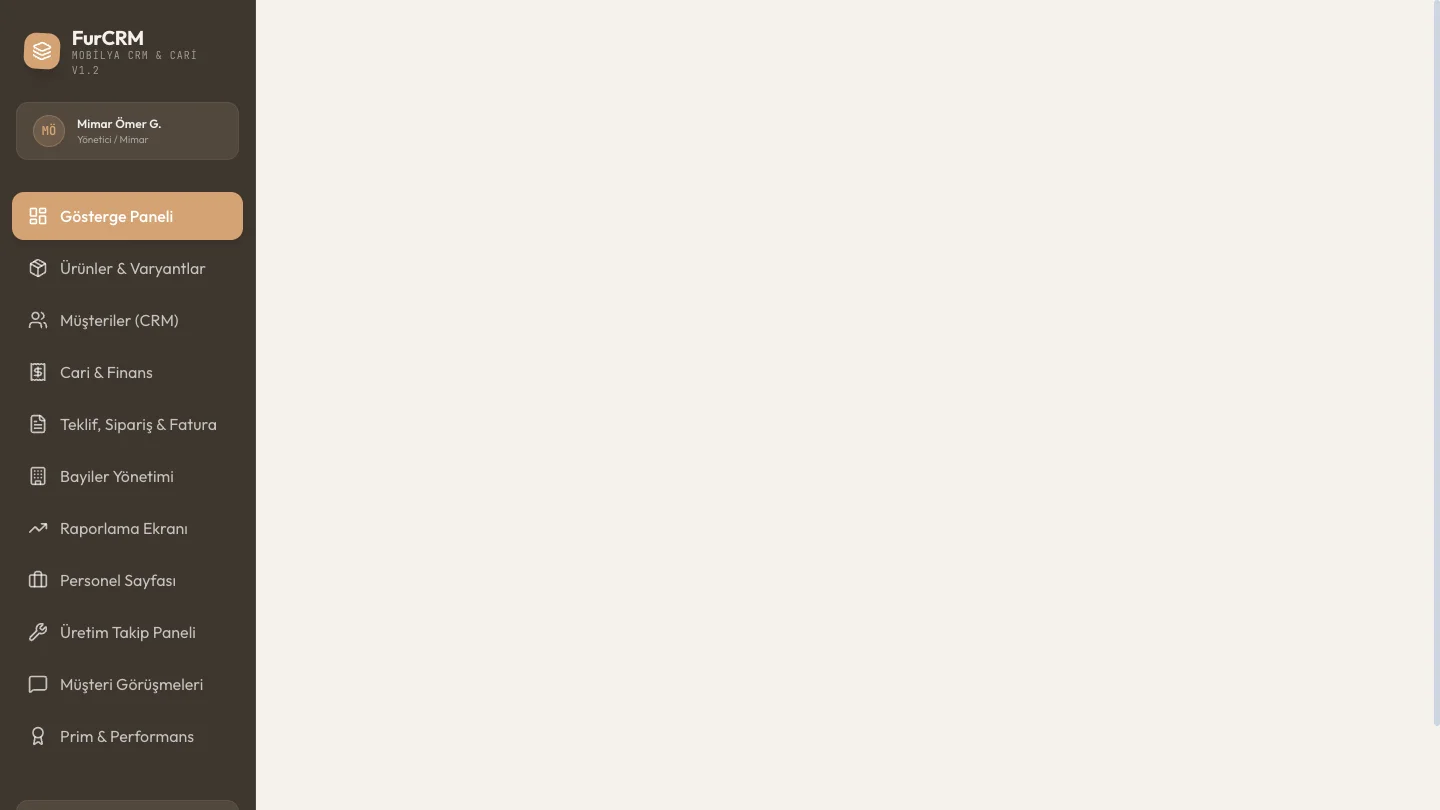
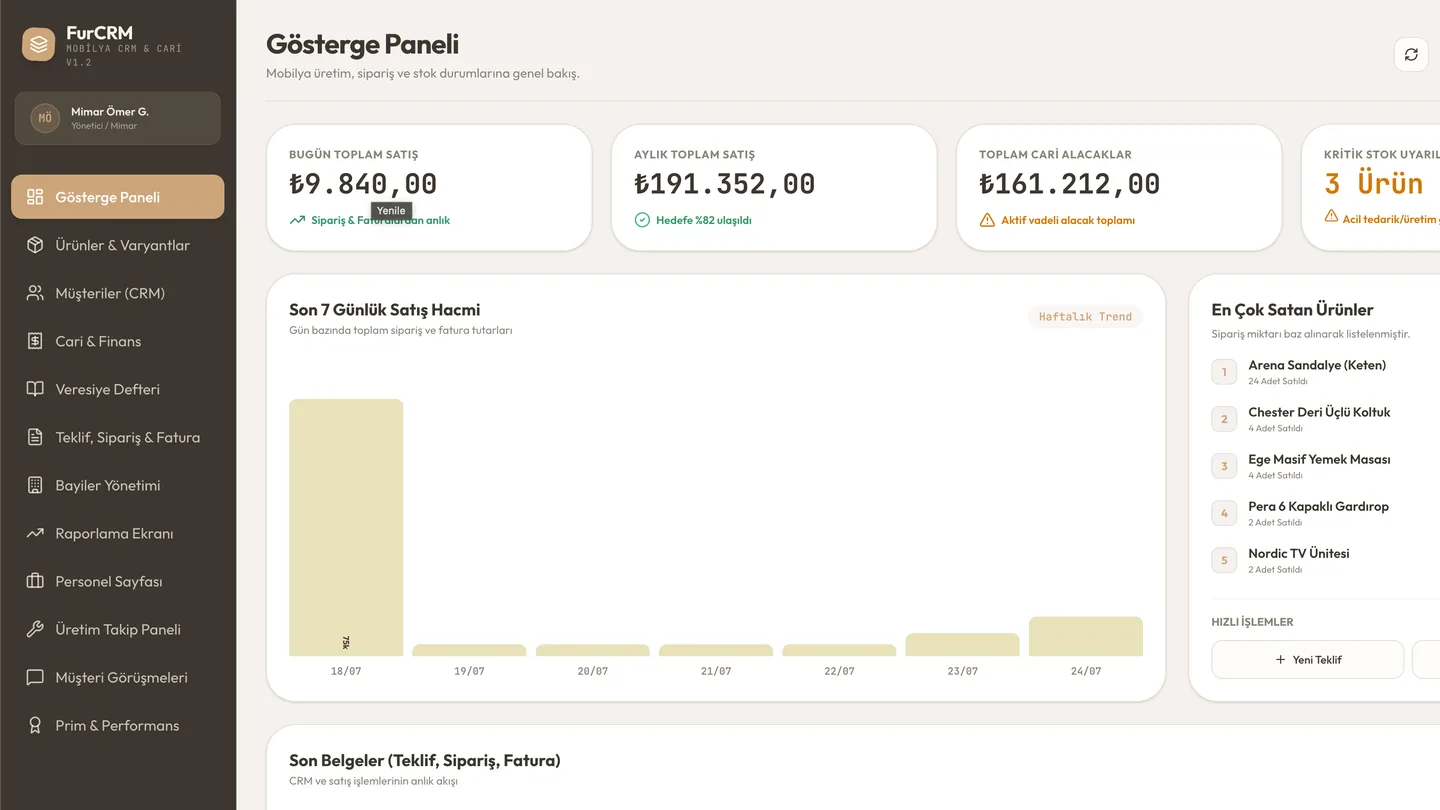
feat(assets): 5 yeni proje gorseli + bozuk FurCRM preview'i duzeltildi
FurCRM'in desktop preview'i bostu (16 KB, sadece sol menu goruntuluyordu --
screenshot sayfa render olmadan alinmis). Dogru dashboard goruntusuyle degistirildi.

Yeni desktop preview (Google Drive'daki PDF'lerden 150 DPI render, ustten 16:9
kirpma, 1440x810 webp):
- halas-exchange (WordPress admin bar kirpildi)
- arslan-estates
- arslan-group
- arslan-coin-center
- kardesler-taxi

Cyprokey story'si generic story-04.jpg yerine gercek ekran goruntusu kullaniyor.

Desktop preview'li work sayisi: 27 -> 32

diff --git a/src/lib/data.ts b/src/lib/data.ts
@@ -421,6 +421,9 @@ export const WORKS: Work[] = [
       "Hızlı yüklenme süreleri, responsive tasarım ve SEO optimizasyonu ile müşterilerin kolayca ulaşmasını sağladık.",
     ],
     scope: "Web design, finance, corporate",
+    previews: {
+      desktop: '/assets/previews/desktop/halas-exchange.webp',
+    },
   },
   {
     n: "17",
@@ -439,6 +442,9 @@ export const WORKS: Work[] = [
       "SEO optimizasyonu, harita entegrasyonu ve sosyal medya bağlantıları ile dijital görünürlüğü artırdık. Çok dilli yapı ile uluslararası müşterilere ulaşmayı sağladık.",
     ],
     scope: "Web design, real estate, SEO",
+    previews: {
+      desktop: '/assets/previews/desktop/arslan-estates.webp',
+    },
   },
   {
     n: "18",
@@ -457,6 +463,9 @@ export const WORKS: Work[] = [
       "Hizmet bilgileri, konum detayları ve iletişim araçları ile müşteri edinimini kolaylaştırdık. SEO ve sosyal medya entegrasyonu ile dijital varlığı güçlendirdik.",
     ],
     scope: "Web design, finance, crypto",
+    previews: {
+      desktop: '/assets/previews/desktop/arslan-coin-center.webp',
+    },
   },
   {
     n: "19",
@@ -475,6 +484,9 @@ export const WORKS: Work[] = [
       "Modern tasarım, çok dilli yapı ve SEO optimizasyonu ile güçlü bir kurumsal dijital kimlik oluşturduk.",
     ],
     scope: "Web design, corporate, holding",
+    previews: {
+      desktop: '/assets/previews/desktop/arslan-group.webp',
+    },
   },
   {
     n: "20",
@@ -573,6 +585,9 @@ export const WORKS: Work[] = [
       "Yerel SEO çalışmaları ile taksi aramalarında üst sıralarda yer almayı hedefledik. Mobil uyumlu tasarım ile hareket halindeki kullanıcılara kolay erişim sunduk.",
     ],
     scope: "Web design, transportation, SEO",
+    previews: {
+      desktop: '/assets/previews/desktop/kardesler-taxi.webp',
+    },
   },
   {
     n: "25",
@@ -1855,7 +1870,7 @@ export const STORIES: Story[] = [
     year: "2025",
     role: "Design / Development",
     tags: ["Real Estate", "Platform", "KKTC"],
-    image: "story-04.jpg",
+    image: "cyprokey.jpg",
     body: [
       "Cyprokey için Kuzey Kıbrıs gayrimenkul piyasasına yönelik modern bir emlak platformu tasarladık. İlan yönetimi, gelişmiş filtreleme ve harita entegrasyonu ile alıcı ve satıcıları buluşturduk.",
       "SEO optimizasyonu ve kullanıcı dostu arayüz ile emlak aramaları için güçlü bir dijital varlık oluşturduk.",
